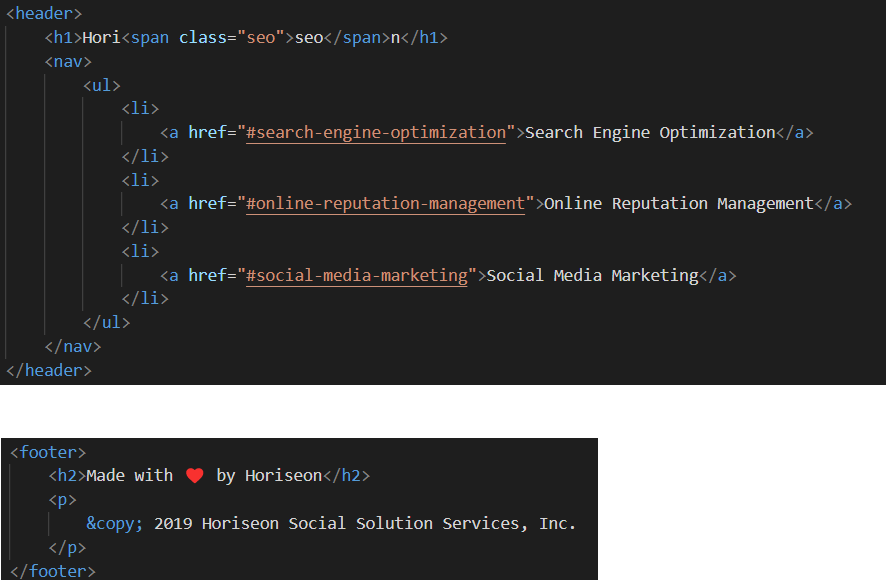
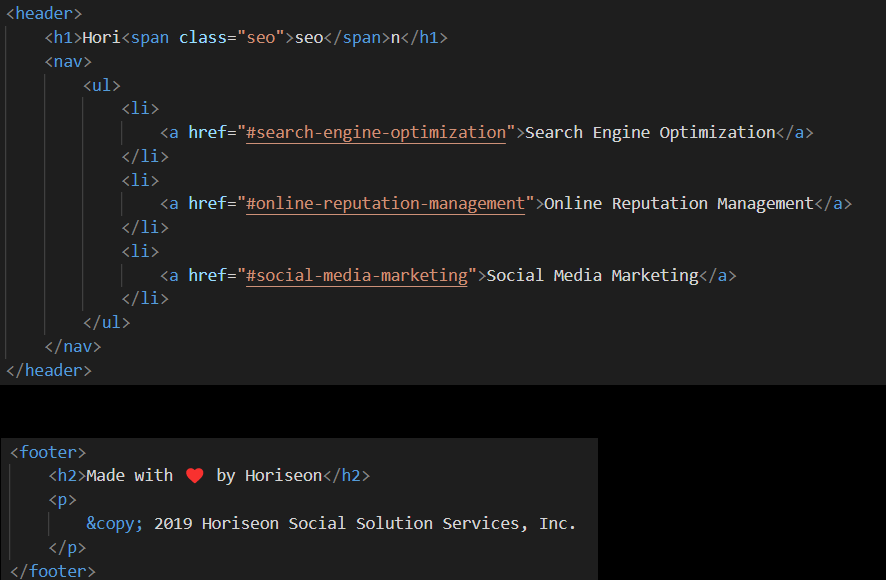
minor edits to README as some words were missing, edited screenshots with black background

Changed region(s): [[0.0, 0.6517, 1.0, 1.0]]

diff --git a/README.md b/README.md
@@ -9,16 +9,18 @@ Title of project was changed from "website" to "Horiseon Homepage"
 ## Semantic element changes
 - Changed basic < div > to < nav > and adjusted .css file accordingly (div became nav)
 
-![Changing relevant div items to nav in CSS](./assets/READMEScreenshots/Nav%20edit.png)
+![Changed relevant div items to nav in CSS](./assets/READMEScreenshots/Nav%20edit.png)
 
-![Linked "search enging optimization" to nav by adding id](./assets/READMEScreenshots/searchengineoptimization%20id.png)
+- Linked "search engine optimization" to nav by adding id indicator #.
 
-- Changed footer from < div class="footer"> into element <footer>
-- Changed header from < div class="header"> into element <header>
+![Linked "search engine optimization" to nav by adding id indicator](./assets/READMEScreenshots/searchengineoptimization%20id.png)
+
+- Changed footer from < div class="footer"> into element < footer>
+- Changed header from < div class="header"> into element < header>
 
 ![Cleaned up header and footer semantics](./assets/READMEScreenshots/headerfooterchange.png)
 
-- Added header, nav, section, article, and footer semantics
+- Added header, nav, section, article, and footer semantics throughout code to replace div.
 
 
 
